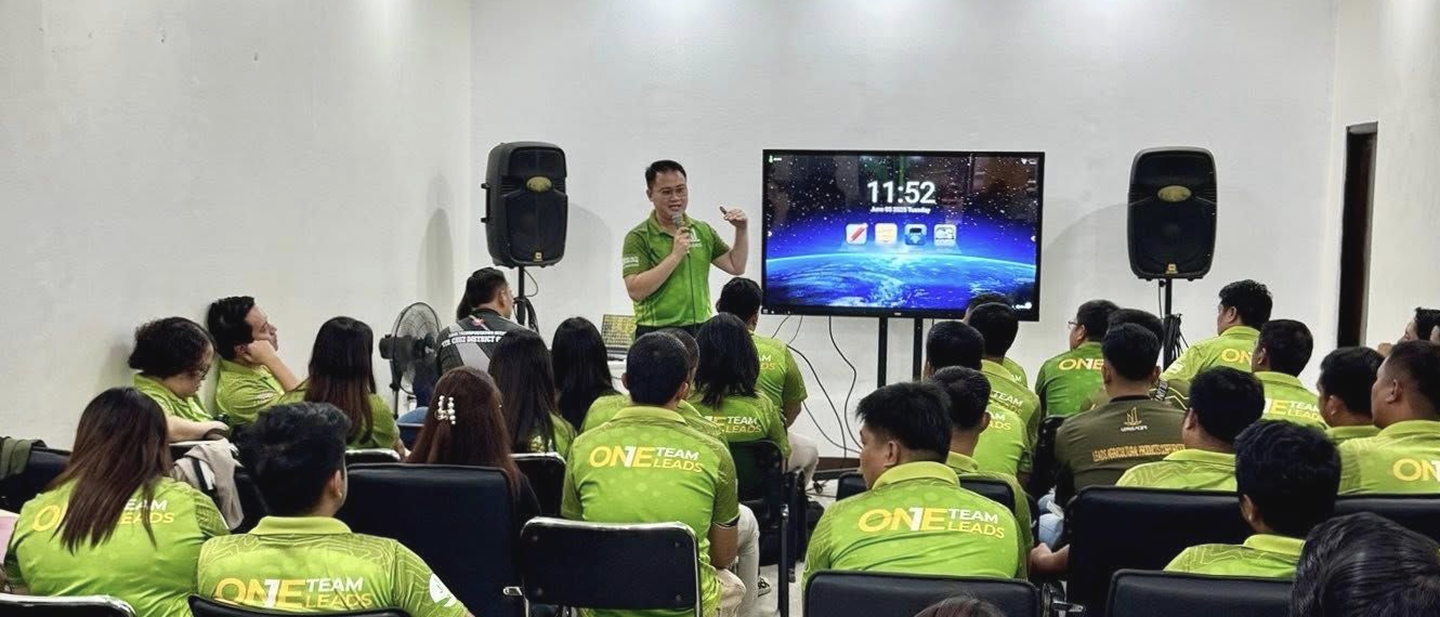
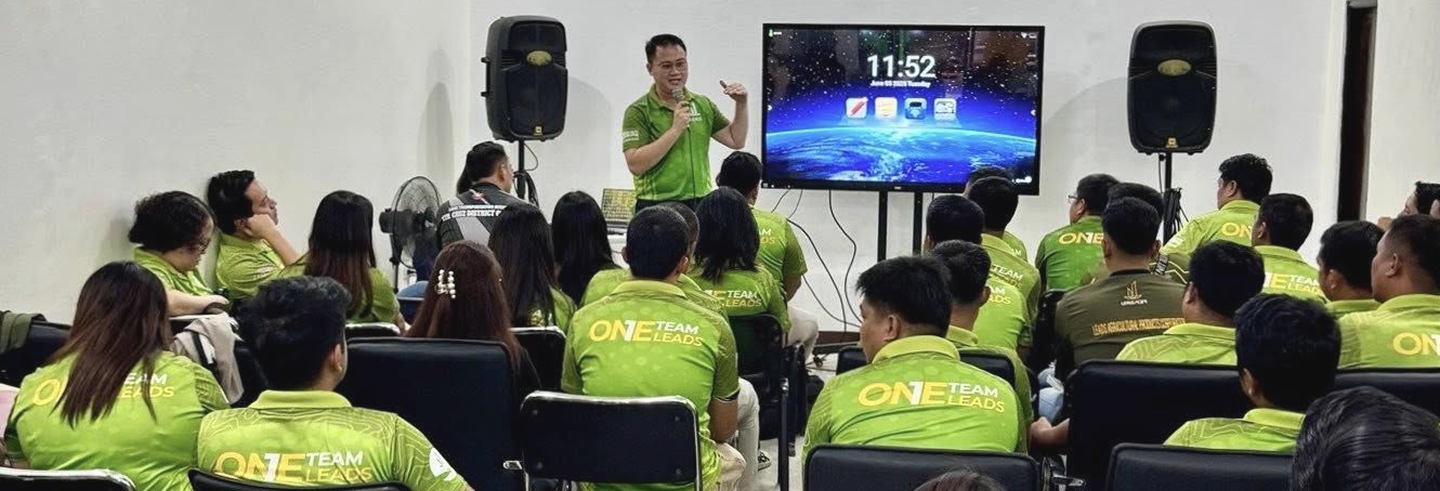
more responsive fix

diff --git a/resources/js/components/ContactUs.vue b/resources/js/components/ContactUs.vue
@@ -2,49 +2,51 @@
     <div>
         <!-- Upper image/overlay/Contact Us section -->
         <div class="job-careers relative w-full">
-            <div class="relative">
-                <img src="/public/images/jobimg.png" alt="Contact Us Background"
-                    class="w-full h-[180px] sm:h-[220px] md:h-[280px] lg:h-[320px] xl:h-[360px] object-cover object-top z-0">
-                <!-- Dark overlay -->
-                <div class="absolute inset-0 bg-[#004E27] opacity-60 z-10"></div>
-                <!-- Centered text -->
-                <div class="absolute inset-0 flex items-center justify-center z-20 px-4">
-                    <h1
-                        class="text-white text-2xl sm:text-3xl md:text-4xl lg:text-5xl xl:text-6xl leading-tight text-center font-helvetica-heavy drop-shadow-lg">
-                        Contact Us
-                    </h1>
-                </div>
-            </div>
+    <div class="relative">
+        <img src="/public/images/jobimg.png" alt="Contact Us Background"
+            class="w-full h-[180px] sm:h-[220px] md:h-[280px] lg:h-[320px] xl:h-[360px] 2xl:h-[400px] object-cover object-top z-0">
+        <!-- Dark overlay -->
+        <div class="absolute inset-0 bg-[#004E27] opacity-60 z-10"></div>
+        <!-- Centered text -->
+        <div class="absolute inset-0 flex items-center justify-center z-20 px-4">
+            <h1
+                class="text-white text-3xl sm:text-4xl md:text-5xl lg:text-6xl xl:text-6xl leading-tight text-center font-helvetica-heavy">
+                CONTACT US
+            </h1>
         </div>
+    </div>
+</div>
+
 
 
         <!-- Distributor Directory Section -->
         <div class="flex flex-col md:flex-row mt-10 gap-6 px-4 md:px-8 pb-16">
 
             <!-- Sidebar Regions -->
-            <div class="md:w-1/4 w-full bg-white rounded-xl shadow p-4 space-y-4">
-                <h2 class="text-lg font-bold text-gray-700 border-b pb-2">Directories</h2>
+<div class="md:w-1/4 w-full bg-white rounded-xl shadow p-4 space-y-4 min-h-[400px]">
+    <h2 class="text-lg font-bold text-gray-700 border-b pb-2">Directories</h2>
 
-                <div v-for="region in orderedRegions" :key="region">
-                    <!-- Region Button -->
-                    <button @click="toggleRegion(region)"
-                        class="w-full text-left bg-green-700 hover:bg-green-800 transition text-white p-3 rounded-lg font-medium">
-                        {{ region }}
+    <div v-for="region in orderedRegions" :key="region">
+        <!-- Region Button -->
+        <button @click="toggleRegion(region)"
+            class="w-full text-left bg-green-700 hover:bg-green-800 transition text-white p-3 rounded-lg font-medium">
+            {{ region }}
+        </button>
+
+        <!-- Subfolders (accordion style) -->
+        <transition name="expand">
+            <div v-show="activeRegion === region" class="ml-2 mt-3 space-y-2 overflow-hidden">
+                <div v-for="(list, place) in distributors[region]" :key="place">
+                    <button @click="selectPlace(region, place, list)"
+                        class="w-full text-left bg-green-100 hover:bg-green-200 transition p-2 rounded-md text-gray-700 font-medium">
+                        {{ place }}
                     </button>
-
-                    <!-- Subfolders (accordion style) -->
-                    <transition name="expand">
-                        <div v-show="activeRegion === region" class="ml-2 mt-3 space-y-2 overflow-hidden">
-                            <div v-for="(list, place) in distributors[region]" :key="place">
-                                <button @click="selectPlace(region, place, list)"
-                                    class="w-full text-left bg-green-100 hover:bg-green-200 transition p-2 rounded-md text-gray-700 font-medium">
-                                    {{ place }}
-                                </button>
-                            </div>
-                        </div>
-                    </transition>
                 </div>
             </div>
+        </transition>
+    </div>
+</div>
+
 
             <!-- Distributor Cards (Scrollable) -->
             <div class="md:w-3/4 w-full">

diff --git a/resources/js/components/JobCareers.vue b/resources/js/components/JobCareers.vue
@@ -7,21 +7,21 @@
         <template v-else>
             <!-- Upper image/overlay/CAREERS section -->
             <div class="job-careers relative w-full">
-                <div class="relative">
-                    <!-- Responsive image height (increased) -->
-                    <img src="/public/images/jobimg.png" alt="Career Background"
-                        class="career-image w-full h-[400px] sm:h-[500px] md:h-[600px] lg:h-[700px] object-cover object-top z-0">
-                    <!-- Dark green overlay with 55% opacity, z-10 -->
-                    <div class="absolute inset-0 bg-[#004E27] opacity-55 z-10"></div>
-                    <!-- Responsive centered CAREERS text, z-20 -->
-                    <div class="absolute inset-0 flex items-center justify-center z-20">
-                        <h1
-                            class="text-white text-4xl sm:text-4xl md:text-4xl lg:text-6xl xl:text-6xl leading-tight text-center font-helvetica-heavy">
-                            CAREERS
-                        </h1>
-                    </div>
-                </div>
-            </div>
+    <div class="relative">
+        <!-- Responsive image -->
+        <img src="/public/images/jobimg.png" alt="Career Background"
+             class="w-full h-[180px] sm:h-[220px] md:h-[280px] lg:h-[320px] xl:h-[360px] 2xl:h-[400px] object-cover object-top z-0">
+        <!-- Dark green overlay with 55% opacity -->
+        <div class="absolute inset-0 bg-[#004E27] opacity-55 z-10"></div>
+        <!-- Centered CAREERS text -->
+        <div class="absolute inset-0 flex items-center justify-center z-20 px-4">
+            <h1 class="text-white text-3xl sm:text-4xl md:text-5xl lg:text-6xl xl:text-6xl leading-tight text-center font-helvetica-heavy">
+                CAREERS
+            </h1>
+        </div>
+    </div>
+</div>
+
             <!-- Main Content: show ApplicationSuccess if showSuccess, else show job cards and form -->
             <div class="w-full min-h-[500px] bg-white flex flex-col items-center py-16">
                 <template v-if="showSuccess">

diff --git a/resources/js/components/SeeMoreCareers.vue b/resources/js/components/SeeMoreCareers.vue
@@ -4,7 +4,7 @@
         <div class="job-careers relative w-full">
             <div class="relative">
                 <img src="/public/images/jobimg.png" alt="Career Background"
-                    class="career-image w-full h-[400px] sm:h-[500px] md:h-[600px] lg:h-[700px] object-cover object-top z-0">
+                    class="w-full h-[180px] sm:h-[220px] md:h-[280px] lg:h-[320px] xl:h-[360px] 2xl:h-[400px] object-cover object-top z-0">
                 <div class="absolute inset-0 bg-[#004E27] opacity-55 z-10"></div>
                 <div class="absolute inset-0 flex items-center justify-center z-20">
                     <h1
